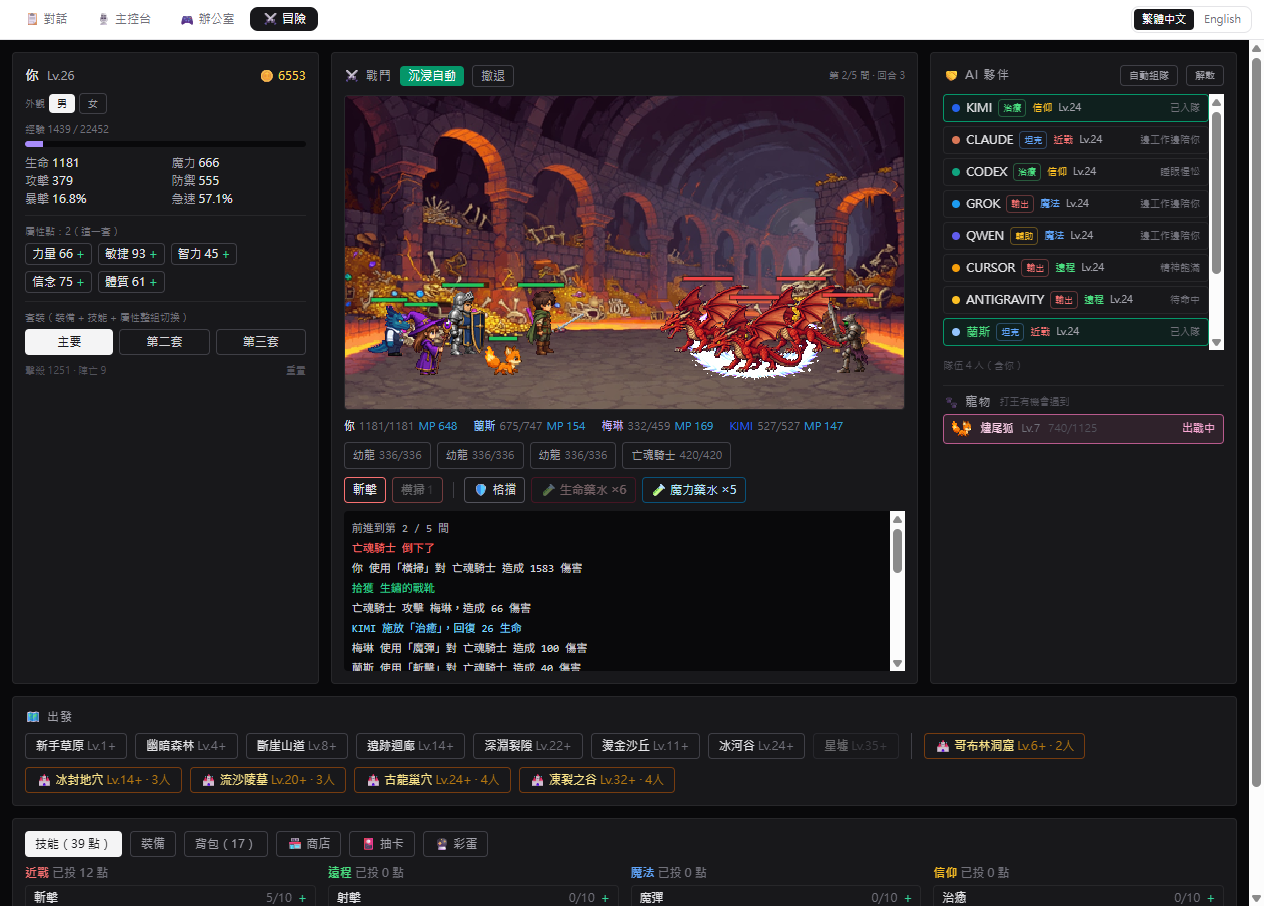
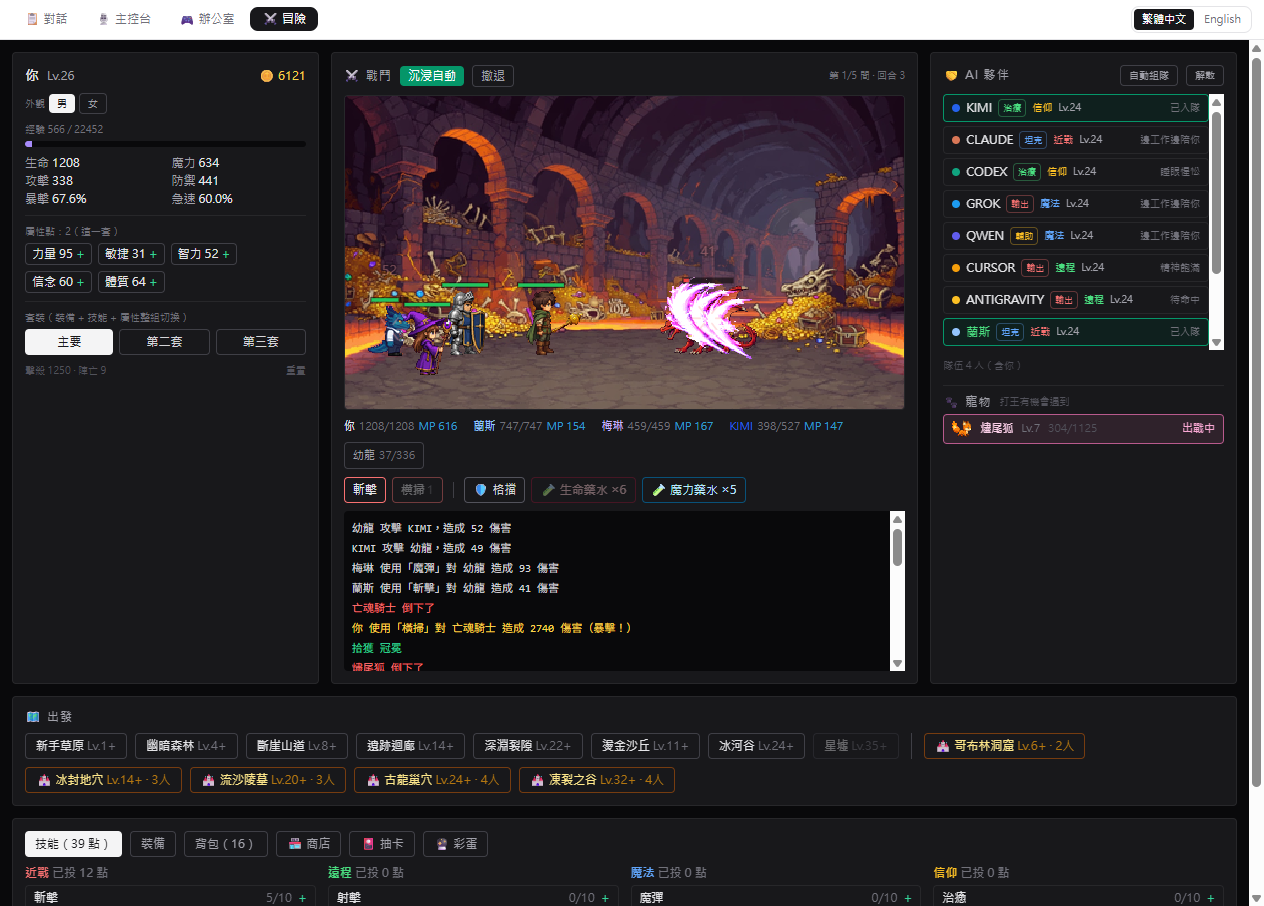
沒紀錄的角色不要淡化：狀態改用行為表達，不要動精靈本身
同一個問題連續換了三個做法都沒解決根本：
  1. 疊 saturation 混色方塊 → 混色作用於方塊底下的所有東西，
     地板家具一起被抽掉彩度，畫面上多出一個硬邊灰方塊
  2. filter: grayscale → 方塊沒了但整隻變灰，黃色的傻龍像壞掉的素材
  3. 半透明 0.55 → 還是像圖沒載好，而且「查不到狀態」跟「東西壞了」
     在畫面上長得一模一樣

根本問題是拿視覺特效去表達狀態。這個場景的其他狀態全部是用行為與位置
表達的：工作坐工位、休息去沙發、派工走到白板、閒晃四處走動。
只有這一個額外去動精靈本身，那才是不一致的地方。

現在全部畫成完整不透明，「沒紀錄」靠「站著完全不動」跟其他人區分 ——
idle 的會到處走去倒水看書，這一群一直立正就看得出來不在狀態內。
名牌與圖例負責說明原因。

順帶修掉一個對不上的註解：程式碼寫「外出：在門口一帶散開站著」，
實際座標 (18, 22) 是房間下半部的空地，不是門口。

辦公室截圖確認 ANTIGRAVITY 現在是實心黃色。

diff --git a/src/pixel/render.ts b/src/pixel/render.ts
@@ -91,16 +91,21 @@ export class OfficeRenderer {
     b.beginPath()
     b.ellipse(a.x, a.y - 1, 9, 3.5, 0, 0, Math.PI * 2)
     b.fill()
-    // 沒有活動跡象的（外出／查不到狀態）只調透明度，**不要**抽彩度。
+    // 每一隻都畫成完整不透明。
     //
-    // 這裡踩過兩次：
-    //   1. 最早是疊一塊 saturation 混色方塊，但混色作用於「方塊底下的所有東西」，
+    // 這裡連續踩過三次，記錄下來免得又改回去：
+    //   1. 最早疊一塊 saturation 混色方塊 → 混色作用於「方塊底下的所有東西」，
     //      地板家具一起被抽掉彩度，畫面上多出一個硬邊灰方塊
-    //   2. 改成 filter: grayscale 之後方塊沒了，但整隻變灰 —— 黃色的傻龍看起來
-    //      像壞掉的素材。辦公室的全部意義就是「一眼認出誰是誰」，
-    //      抽掉顏色等於把身分也抽掉了
-    // 半透明已經足夠表達「不在狀態內」，而且認得出是哪一隻。
-    drawAgent(b, a.key, frame, a.x, a.y + bob, flip, a.mode === 'away' ? 0.55 : 1)
+    //   2. 改成 filter: grayscale → 方塊沒了，但整隻變灰。黃色的傻龍看起來
+    //      像壞掉的素材
+    //   3. 改成半透明 → 還是像沒載好的圖，而且「查不到狀態」跟「東西壞了」
+    //      在畫面上長得一樣
+    //
+    // 根本問題是拿視覺效果去表達狀態。這個場景的其他狀態全部是用**行為與位置**
+    // 表達的：工作坐工位、休息去沙發、派工走到白板、閒晃四處走動。
+    // 只有這一個額外去動精靈本身，那才是不一致的地方。
+    // 沒有活動紀錄的角色改成「站著不動」來表達，名牌與圖例負責說明原因。
+    drawAgent(b, a.key, frame, a.x, a.y + bob, flip, 1)
     if (o.hover === a.key) {
       b.strokeStyle = SKINS[a.key]?.color ?? '#fff'
       b.lineWidth = 1

diff --git a/src/pixel/world.ts b/src/pixel/world.ts
@@ -240,7 +240,11 @@ export class World {
         break
       }
       default: {
-        // 外出：在門口一帶散開站著，不要疊成一團
+        // 查不到狀態：在房間下半部的空地站成一排，面向鏡頭，不要疊成一團。
+        //
+        // 靠「站著完全不動」跟其他人區分 —— idle 的會到處走去倒水看書，
+        // working 的坐在工位上，這一群一直立正就看得出來不在狀態內。
+        // 不用淡化或去彩度：那會讓人以為是圖沒載好。
         const i = this.agents.filter((o) => o.mode === 'away').indexOf(a)
         a.act = { kind: 'idlestand', target: { x: 18 + i * 3, y: 22, face: 'down' }, until: now + 20 }
       }
